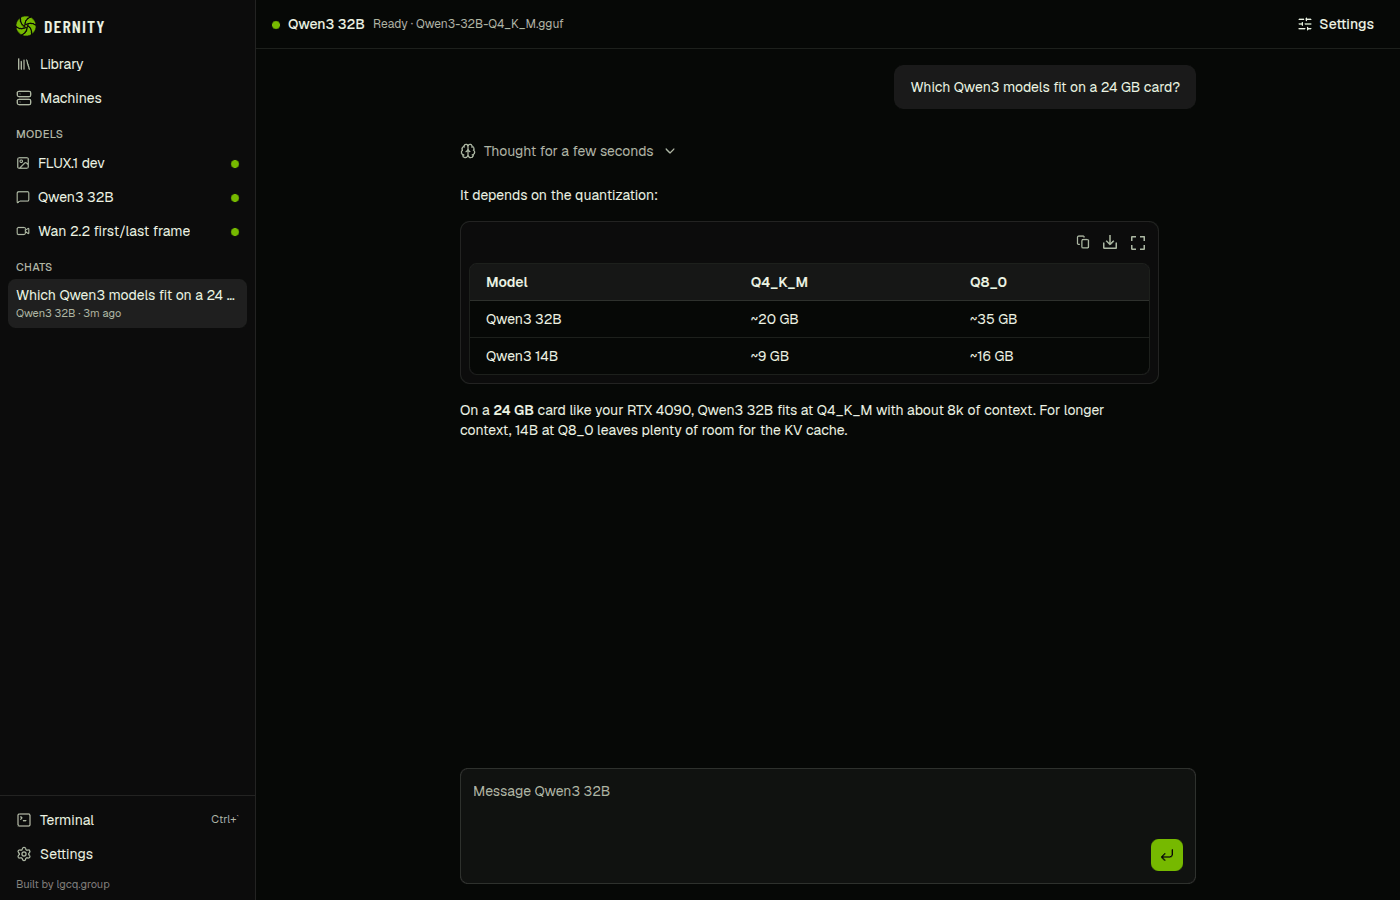
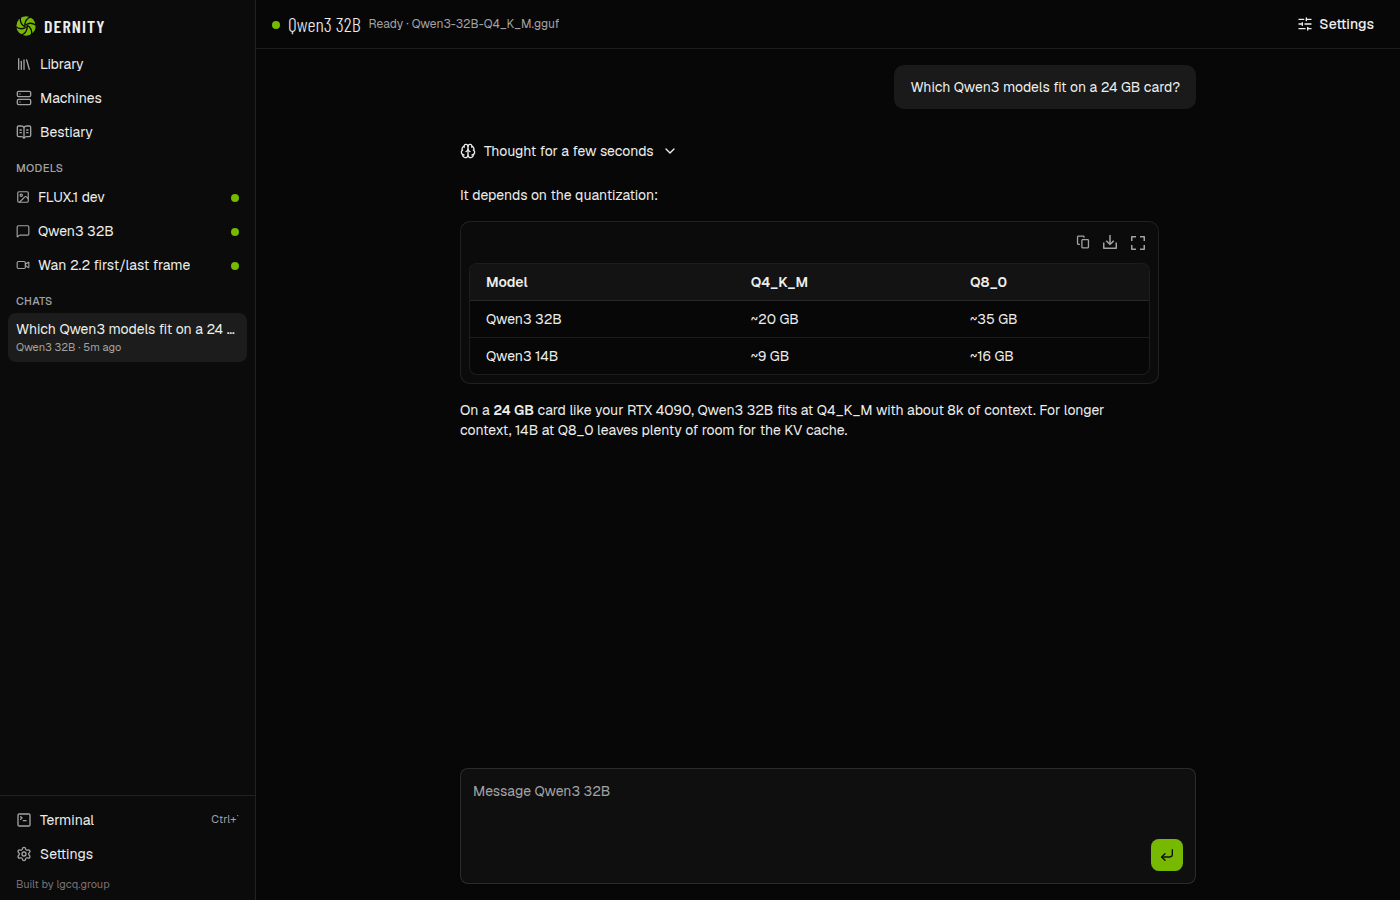
docs: new screenshots, Bestiary and Hugging Face token in README

Changed region(s): [[0.0, 0.1244, 0.1536, 0.4044], [0.215, 0.0, 0.3993, 0.0311], [0.3379, 0.1556, 0.4607, 0.1867]]

diff --git a/README.md b/README.md
@@ -35,11 +35,18 @@ Dernity puts that in one place:
 - **One window for every model.** Text models get a chat. Image and video models get a generation studio.
 - **The UI fits the model.** If a video model takes a first and last frame, you get two frame slots. If an
   image model takes references, you can attach them. If it doesn't, the field isn't there.
+- **A guide to every model.** After a deploy the agent writes down what the model can do, its limits,
+  prompts that work and which GPUs it fit on. The Bestiary shows it as cards, and one click fills the
+  studio with an example or the recommended settings. The agent reads it again before the next deploy.
 - **Know what you're paying for.** Balances, running and stopped machines, $/h, and a history of what ran
   where, with a button to bring it back.
 
 <p align="center">
   <img src="docs/studio.png" alt="A video model that takes a first and last frame" width="880">
+</p>
+
+<p align="center">
+  <img src="docs/bestiary.png" alt="The Bestiary guide for a video model" width="880">
 </p>
 
 ## Getting started
@@ -73,6 +80,8 @@ You need an account with money on it at [Vast.ai](https://vast.ai) or [RunPod](h
 
 - **API key.** If you use the `vastai` or `runpodctl` CLI, Dernity reads the key from their config.
   Otherwise paste it in **Settings**; it's stored encrypted with your system keychain.
+- **Hugging Face token** (optional). Gated models need one. Paste it in **Settings** and agent terminals
+  get it as `HF_TOKEN`.
 - **SSH key.** Add your public SSH key to your Vast.ai or RunPod account. The agent sets model servers up
   behind an SSH tunnel or a token, so nobody else can use them.
 
